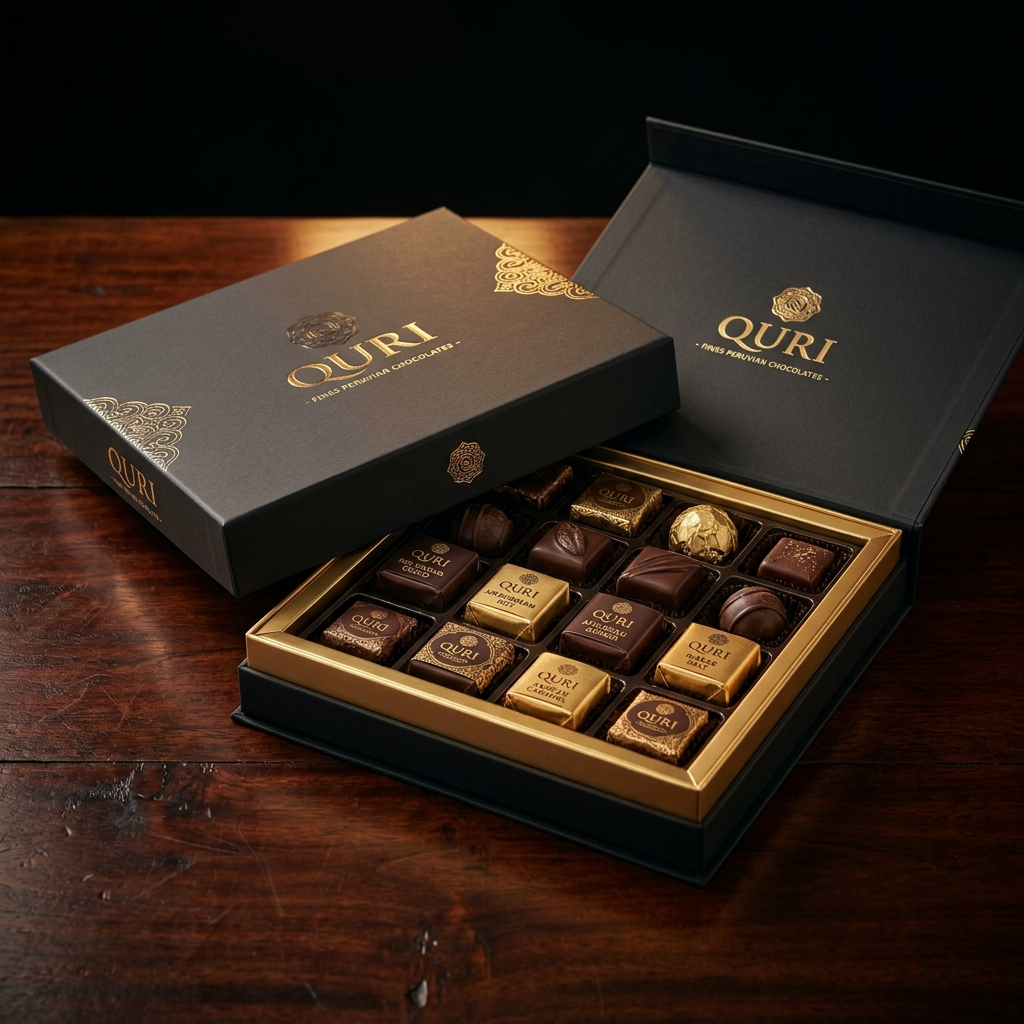
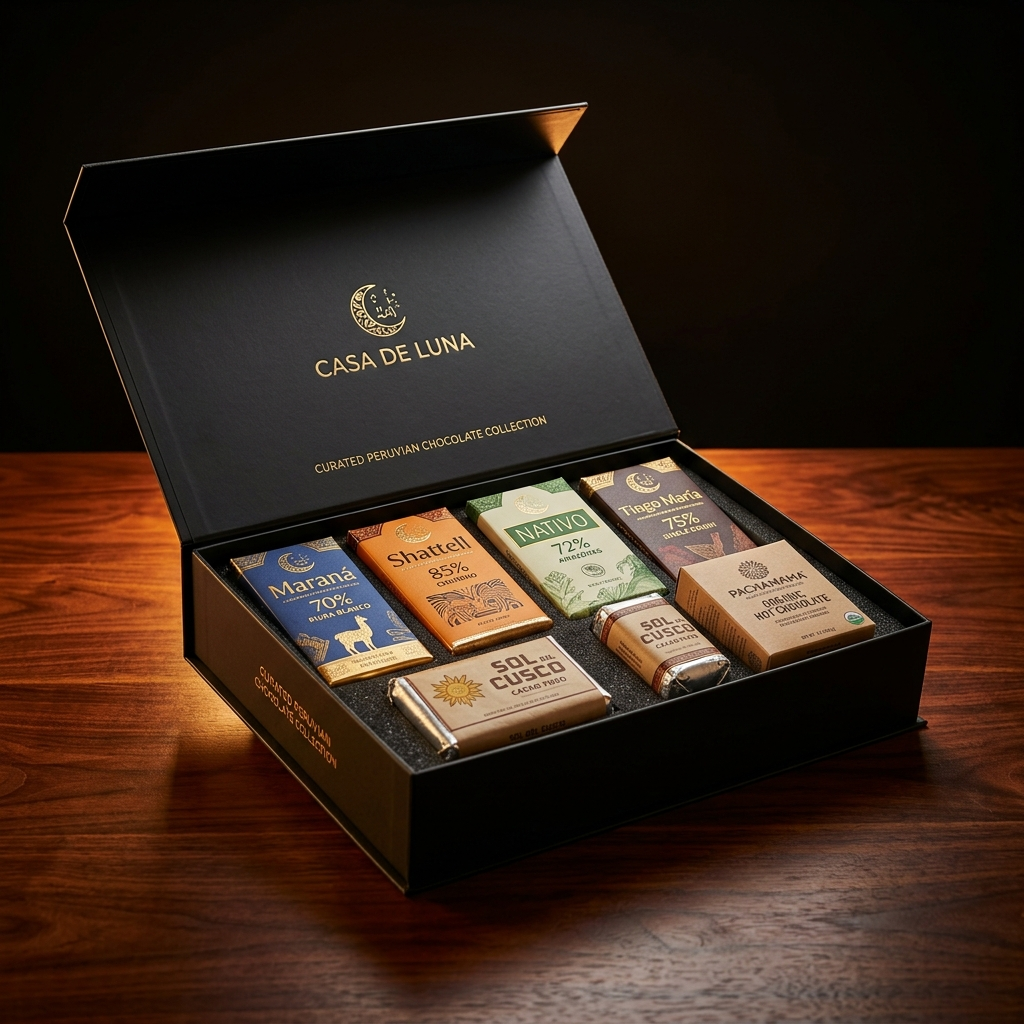
style: regenerate peruvian boxes to feature commercial products and acrylic aesthetic

diff --git a/app/page.tsx b/app/page.tsx
@@ -90,9 +90,9 @@ export default async function Home() {
               
               {/* Pilar 1 (Large, left aligned) */}
               <div className="md:col-span-8 group">
-                <Link href="/producto/antojos-peruanos" data-cursor="product" className="block relative aspect-video bg-gray-200 overflow-hidden rounded-[2rem] mb-8">
+                <Link href="/producto/antojos-peruanos" data-cursor="product" className="block relative aspect-[4/5] bg-gray-200 overflow-hidden rounded-[2rem] mb-8">
                   <div className="absolute inset-0 bg-black/10 group-hover:bg-transparent transition-colors z-10"></div>
-                  <Image src="/images/peruvian_box.png" alt="Antojos Peruanos" fill className="object-cover group-hover:scale-105 transition-transform duration-1000 ease-[cubic-bezier(0.23,1,0.32,1)]" />
+                  <Image src="/images/antojos_peruanos_box.png" alt="Antojos Peruanos" fill className="object-cover group-hover:scale-105 transition-transform duration-1000 ease-[cubic-bezier(0.23,1,0.32,1)]" />
                 </Link>
                 <h3 className="text-4xl md:text-5xl font-black uppercase tracking-tight mb-4">Antojos Peruanos</h3>
                 <p className="text-xl text-gray-600 max-w-xl">Tus clásicos favoritos del Perú en una sola caja. Perfecta para matar el antojo o sorprender a quien está lejos con un pedacito de casa.</p>

diff --git a/lib/catalog.ts b/lib/catalog.ts
@@ -159,7 +159,7 @@ const B2C_BOXES: Product[] = [
     name: 'Antojos Peruanos',
     brand: "GOLOZIN BOX",
     price: 65.00,
-    image: "/images/peruvian_box.png",
+    image: "/images/antojos_peruanos_box.png",
     category: "Cajas",
     segment: "fiestas",
     inStock: true,